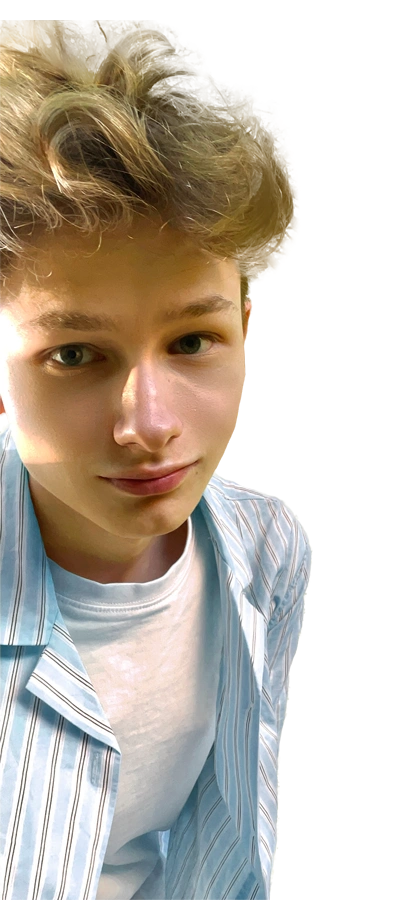
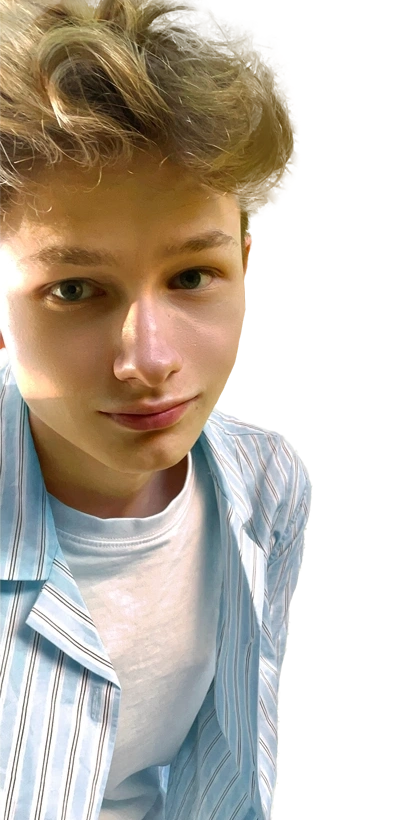
added new pictures

diff --git a/src/pages/About.jsx b/src/pages/About.jsx
@@ -12,7 +12,7 @@ export default function About() {
        tagline="I’m Martin Andersen, a 21-year-old Multimedia Design student from Denmark, currently studying at Business Academy Aarhus. I’ve always loved being creative, which is why I chose Multimedia Design in the first place."
        tagline2="I’m especially passionate about UX & Design, as it allows me to craft digital experiences where creativity meets functionality. Along the way, I also discovered an interest in programming, which allows me to bring my designs to life."
        tagline3="I also like a good team where you can spark new ideas together and even come with different perspectives. This motivates me and inspires me to push even further with the next project."
-       image="https://placehold.co/600x400/faf3de/4b694e?text=Placeholder+Image"
+       image="./img/pc-water.webp"
        className="who-am-i"
      />
       <Work />
@@ -20,7 +20,7 @@ export default function About() {
        title="Fun facts"
        tagline="I create under the alias “Tvebak”. The name goes back to my childhood, when my parents used to call me “Tvebak”, which is the Danish word for crispy, double-baked bun. It stuck with me, and now I use it as my creative identity, which you can see in my logo. "
        tagline2="I’m currently learning Dutch and exploring Dutch culture, which is one of the reasons I’m excited about internship opportunities in the Netherlands."
-       image="https://placehold.co/600x400/faf3de/4b694e?text=Placeholder+Image"
+       image="./img/logo.webp"
        className="fun-facts"
      />
       <Art />

diff --git a/src/main.css b/src/main.css
@@ -128,7 +128,7 @@ h1 {
   display: flex;
   justify-content: space-evenly;
   align-items: center;  
-  flex-direction: row;
+  flex-direction: row-reverse;
   flex-wrap: wrap;
   text-align: center;
   min-height: 60vh;
@@ -599,14 +599,13 @@ h1 {
 .work-together {
   color: #2a2422;
   display: flex;
-  justify-content: space-evenly;
+  justify-content: space-between;
   align-items: center;  
   flex-direction: row-reverse;
   flex-wrap: wrap;
   text-align: center;
   min-height: 60vh;
   background-color: #4B694E;
-  padding: 2rem 0rem;
 }
 
 .work-together img {
@@ -624,7 +623,6 @@ h1 {
   text-align: center;
   gap: 1rem;  
   gap: 2rem;  
-  margin-top: 2rem;
 }
 
 footer {

diff --git a/src/components/Top.jsx b/src/components/Top.jsx
@@ -39,7 +39,7 @@ export default function Top() {
 
   return (
     <section className="about-me-top">
-      <img src="./img/about-me.webp" alt="" className="about-me-bg" />
+      <img src="./img/outside-water.webp" alt="" className="about-me-bg" />
 
       <img src="./img/parralax1.webp" alt="" className="corner corner-1" />
       <img src="./img/parralax2.webp" alt="" className="corner corner-2" />

diff --git a/src/pages/Contact.jsx b/src/pages/Contact.jsx
@@ -14,7 +14,7 @@ export default function Contact() {
         <h2>tvebakmartin@gmail.com</h2>
         <h2>+45 60 69 25 05</h2>
 
-        <img src="./img/about-me.webp" alt="Image of myself" />
+        <img src="./img/big-me.webp" alt="Image of myself" />
 
         <div className="download-cv">
           <a href="/ComingSoon" target="" rel="noopener noreferrer">
